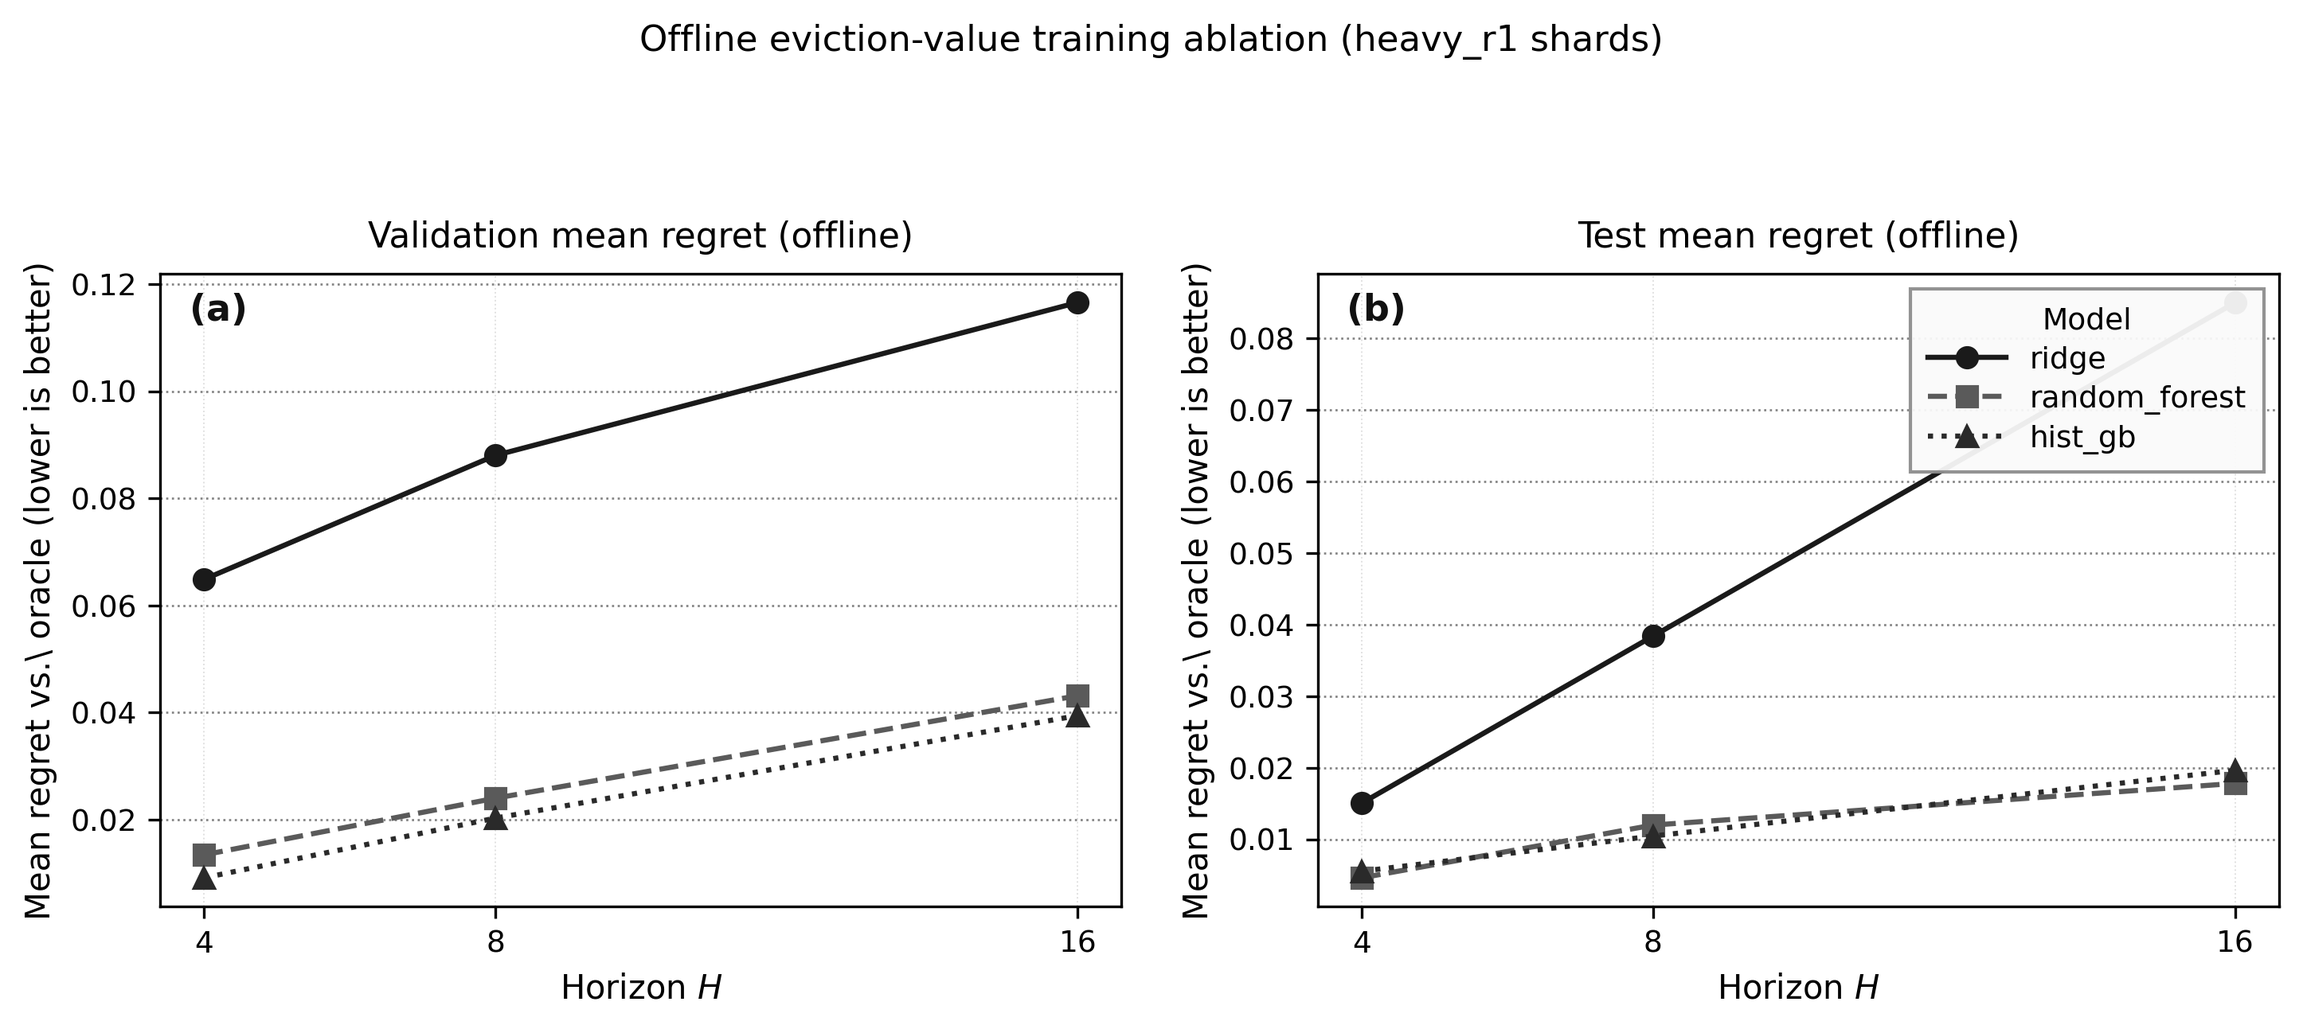
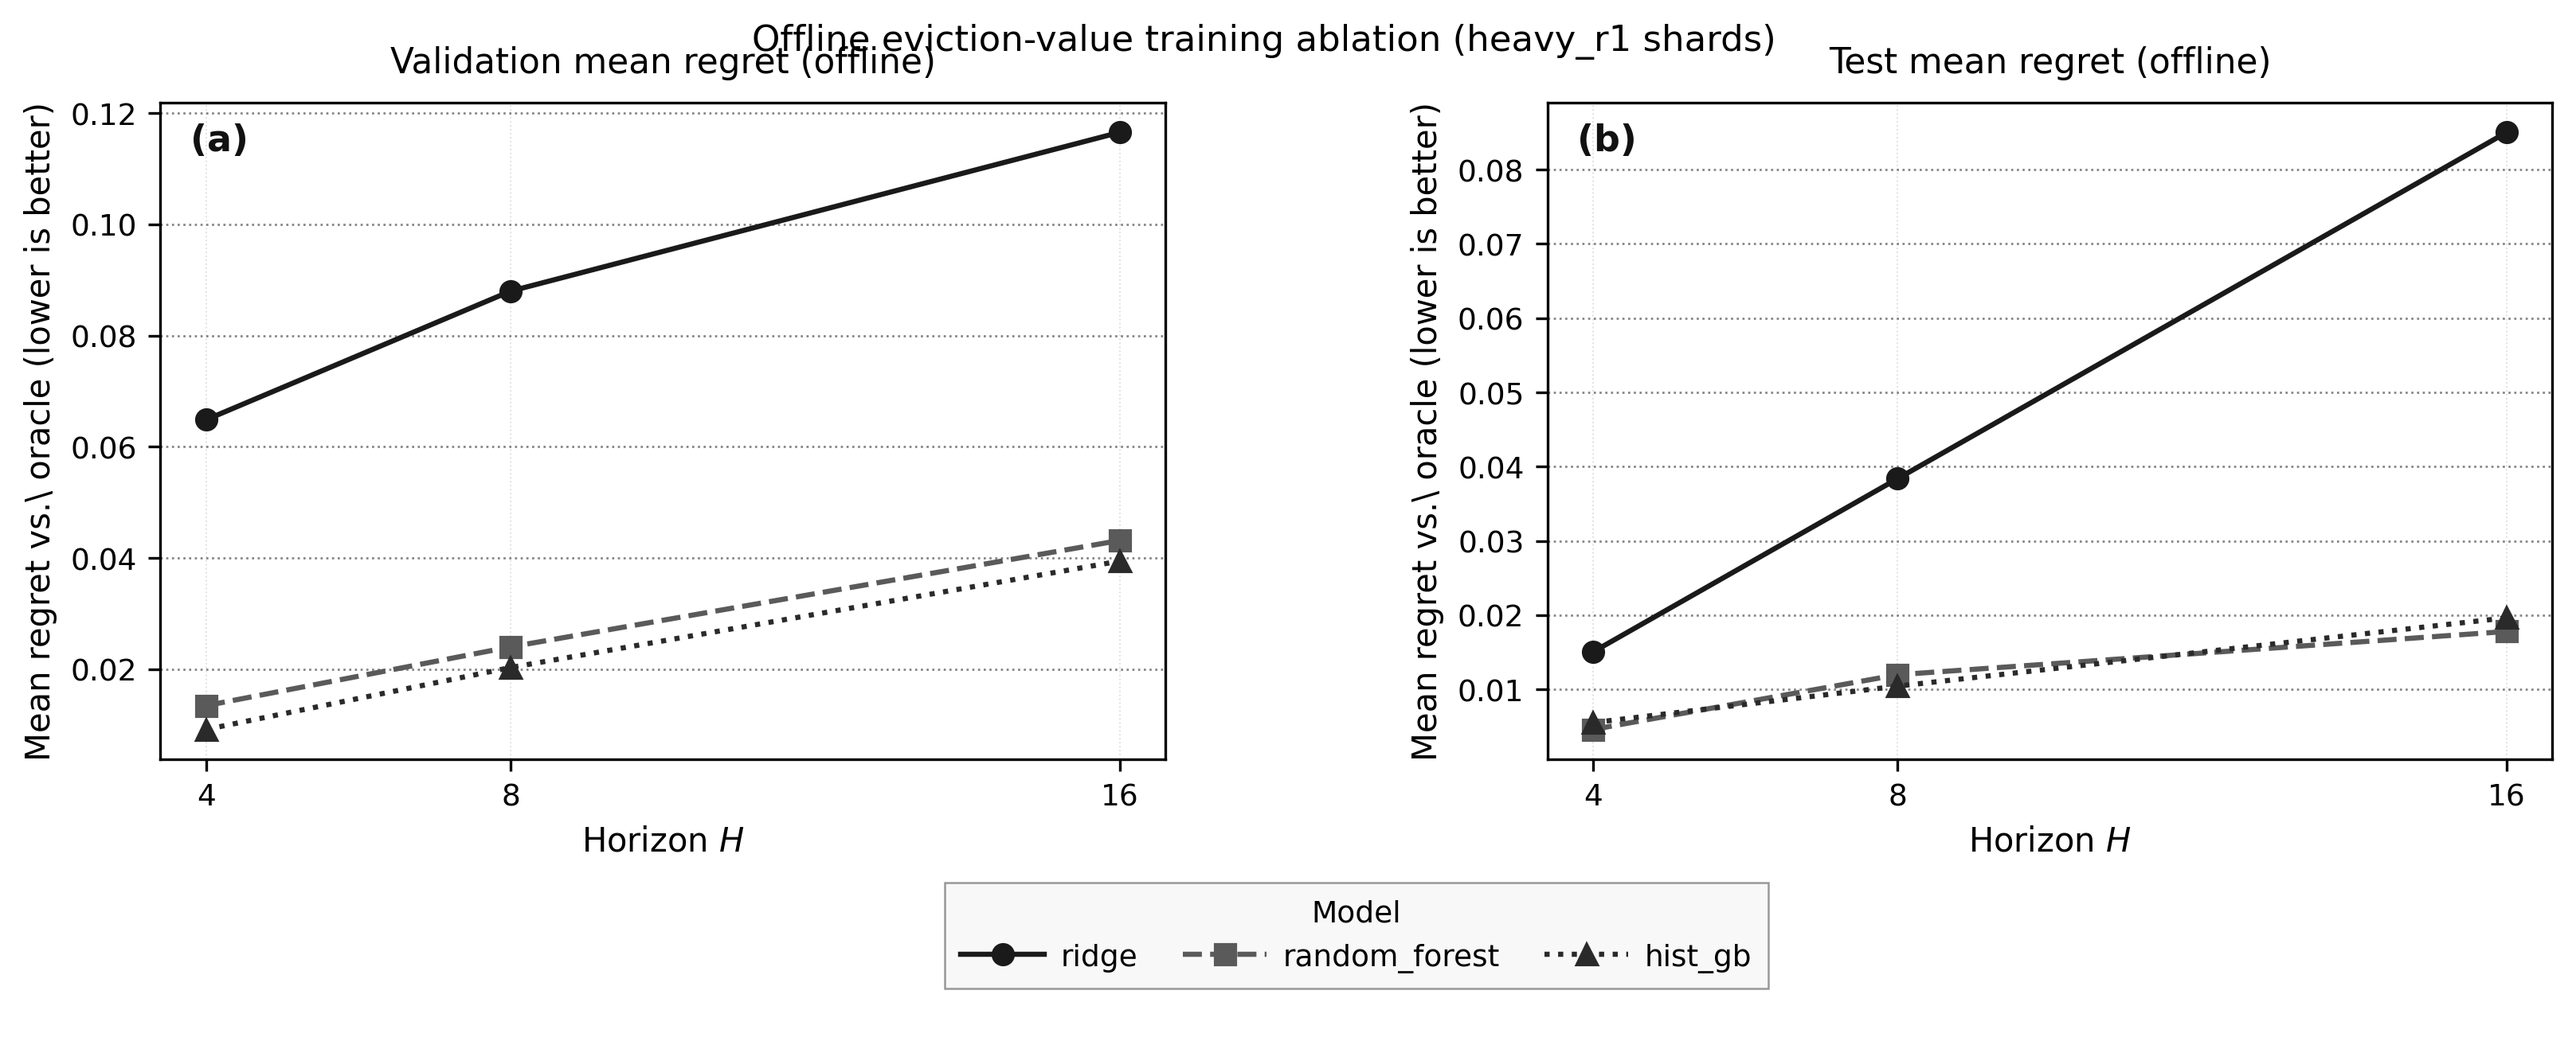
Figure 4 ablation: shared legend below panels via GridSpec
- Move legend out of data axes into a dedicated bottom row (no overlap with curves).
- Widen canvas and tune spacing; regenerate PDF/PNG.
- Update manuscript_artifact_report; refresh figure1 PDF from regen script.

Made-with: Cursor

diff --git a/scripts/paper/manuscript_figure_common.py b/scripts/paper/manuscript_figure_common.py
@@ -304,7 +304,22 @@ def make_offline_ablation_figure(train_rows: List[Dict[str, str]]) -> plt.Figure
     # Plot order: back to front so hist_gb reads on top
     plot_order = ("ridge", "random_forest", "hist_gb")
 
-    fig, axes = plt.subplots(1, 2, figsize=(10.2, 4.35), sharex=True, sharey=False)
+    # Wider canvas + dedicated bottom strip for a shared legend (no legend inside data axes).
+    fig = plt.figure(figsize=(11.0, 4.75))
+    gs = fig.add_gridspec(
+        2,
+        1,
+        height_ratios=[1.0, 0.26],
+        hspace=0.22,
+        left=0.08,
+        right=0.99,
+        top=0.90,
+        bottom=0.09,
+    )
+    gs_panels = gs[0].subgridspec(1, 2, wspace=0.38)
+    ax0 = fig.add_subplot(gs_panels[0, 0])
+    ax1 = fig.add_subplot(gs_panels[0, 1], sharex=ax0)
+    axes = (ax0, ax1)
 
     def _panel_label(ax: plt.Axes, tag: str) -> None:
         ax.text(
@@ -343,32 +358,38 @@ def make_offline_ablation_figure(train_rows: List[Dict[str, str]]) -> plt.Figure
                 clip_on=False,
             )
         ax.set_xticks([4, 8, 16])
-        ax.set_xlabel(r"Horizon $H$")
-        ax.set_ylabel("Mean regret vs.\ oracle (lower is better)")
-        ax.set_title(title, fontsize=10.5, pad=8)
+        ax.set_xlabel(r"Horizon $H$", fontsize=10)
+        ax.set_ylabel("Mean regret vs.\ oracle (lower is better)", fontsize=10)
+        ax.set_title(title, fontsize=10.5, pad=9)
         ax.grid(True, axis="y", linestyle=":", linewidth=0.65, alpha=0.88, color="0.45")
         ax.grid(True, axis="x", linestyle=":", linewidth=0.45, alpha=0.5, color="0.75")
         ax.set_axisbelow(True)
         _panel_label(ax, tag)
 
-    leg = axes[1].legend(
-        loc="upper right",
+    handles, labels = ax0.get_legend_handles_labels()
+    ax_leg = fig.add_subplot(gs[1])
+    ax_leg.set_axis_off()
+    ax_leg.patch.set_alpha(0)
+    leg = ax_leg.legend(
+        handles,
+        labels,
+        loc="center",
+        ncol=3,
         frameon=True,
         fancybox=False,
-        framealpha=0.94,
-        edgecolor="0.55",
-        facecolor="0.98",
-        borderpad=0.6,
-        labelspacing=0.35,
-        handlelength=2.6,
+        edgecolor="0.5",
+        facecolor="0.97",
         fontsize=9,
         title="Model",
         title_fontsize=9,
+        columnspacing=1.5,
+        handlelength=2.8,
+        handletextpad=0.55,
+        borderpad=0.55,
     )
-    leg.set_zorder(20)
+    leg.get_frame().set_linewidth(0.6)
 
-    fig.suptitle("Offline eviction-value training ablation (heavy_r1 shards)", fontsize=10.8, y=1.01)
-    fig.tight_layout(rect=[0.02, 0.02, 0.98, 0.94], pad=1.4, w_pad=2.0)
+    fig.suptitle("Offline eviction-value training ablation (heavy_r1 shards)", fontsize=10.8, y=0.97)
     return fig
 
 

diff --git a/reports/manuscript_artifacts/manuscript_artifact_report.md b/reports/manuscript_artifacts/manuscript_artifact_report.md
@@ -6,7 +6,7 @@
 
 ## Refreshed in this run
 - Figure~1 (`figure1_method_overview`): two-panel offline/online method schematic.
-- Figure~4 (`figure4_ablation`): **two-panel** (validation / test mean regret vs horizon) from `model_comparison_heavy_r1.csv`. Layout update: panel labels `(a)`/`(b)` placed upper-left **consistently**; legend on panel~(b) only, **upper-right** with light frame (fixes prior `(b)` vs legend overlap). Plotted coordinates **numerically match** the current `tables/manuscript/table4_main_ablation.*` source fields (`val_mean_regret`, `test_mean_regret`) for horizons {4, 8, 16} and models `ridge`, `random_forest`, `hist_gb` (verified against `analysis/evict_value_wulver_v1_model_comparison_heavy_r1.csv`).
+- Figure~4 (`figure4_ablation`): **two-panel** (validation / test mean regret vs horizon) from `model_comparison_heavy_r1.csv`. **Shared legend** in a **dedicated row below both panels** (GridSpec) so **no legend overlays data** in panel~(b). Panel labels `(a)`/`(b)` upper-left. Plotted coordinates **numerically match** `table4_main_ablation` / `model_comparison_heavy_r1.csv` (`val_mean_regret`, `test_mean_regret`; horizons {4, 8, 16}; models `ridge`, `random_forest`, `hist_gb`).
 - Table~2 (policy roster), Table~4 (offline ablation) + LaTeX snippets.
 - **Not refreshed:** Table~1, Table~3, Figure~2, Figure~3 — replaced with explicit unavailable stubs; **do not cite** main quantitative results until policy CSV exists.
 
